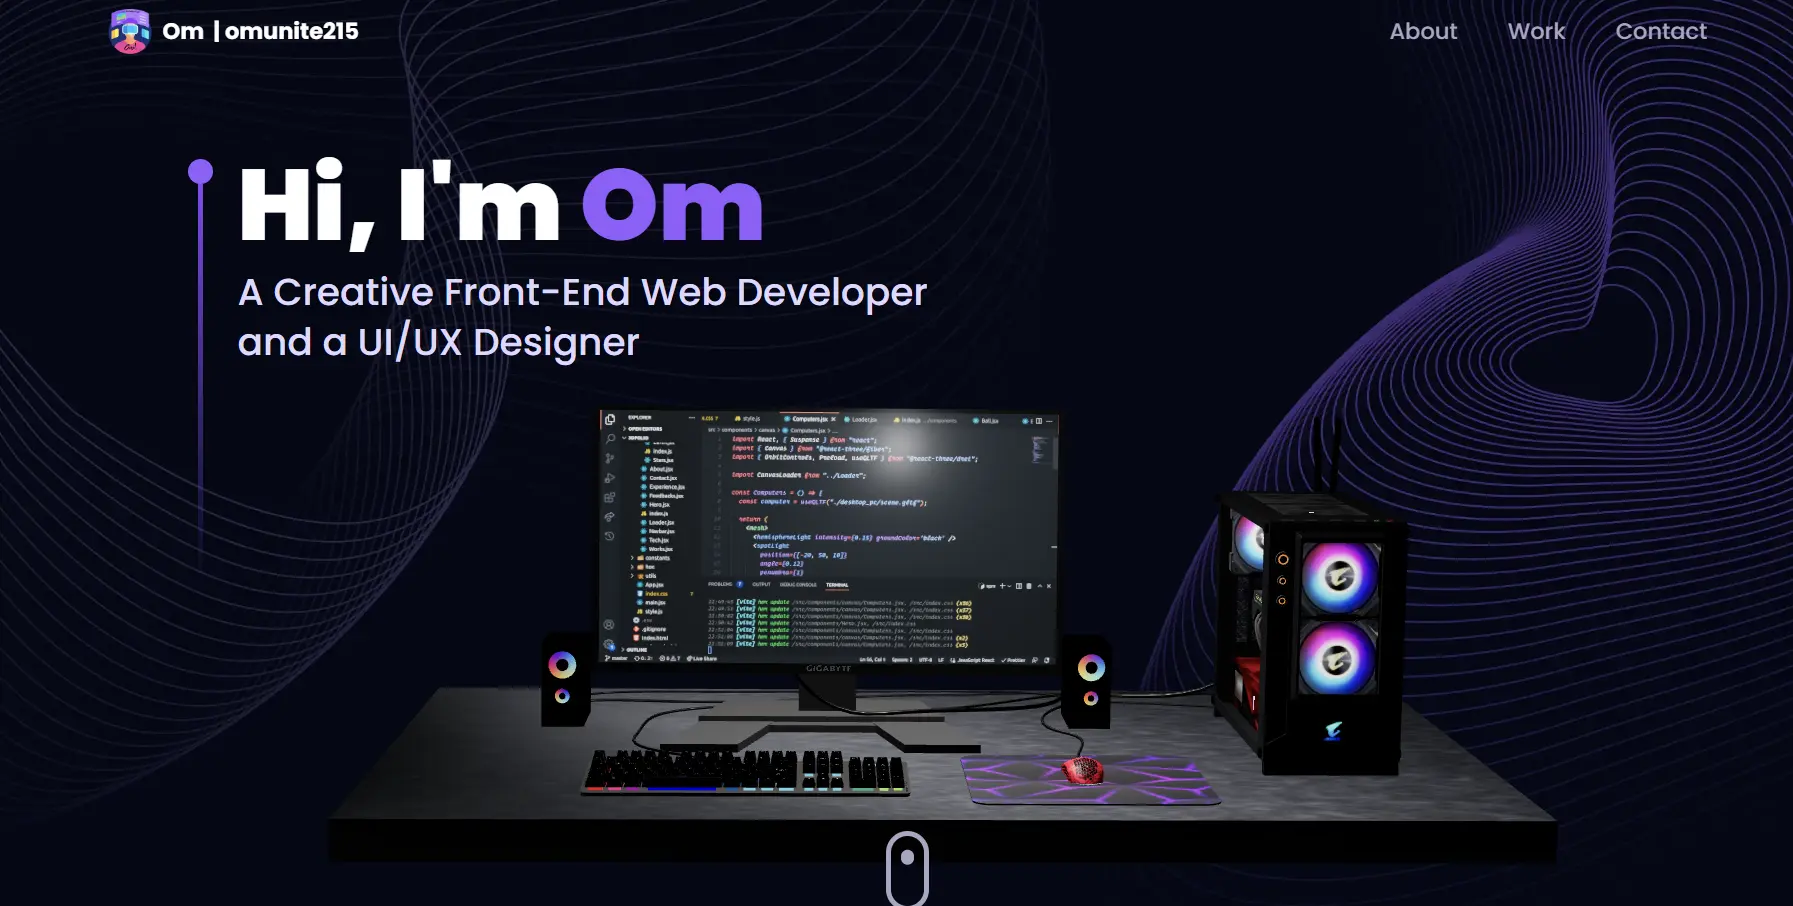
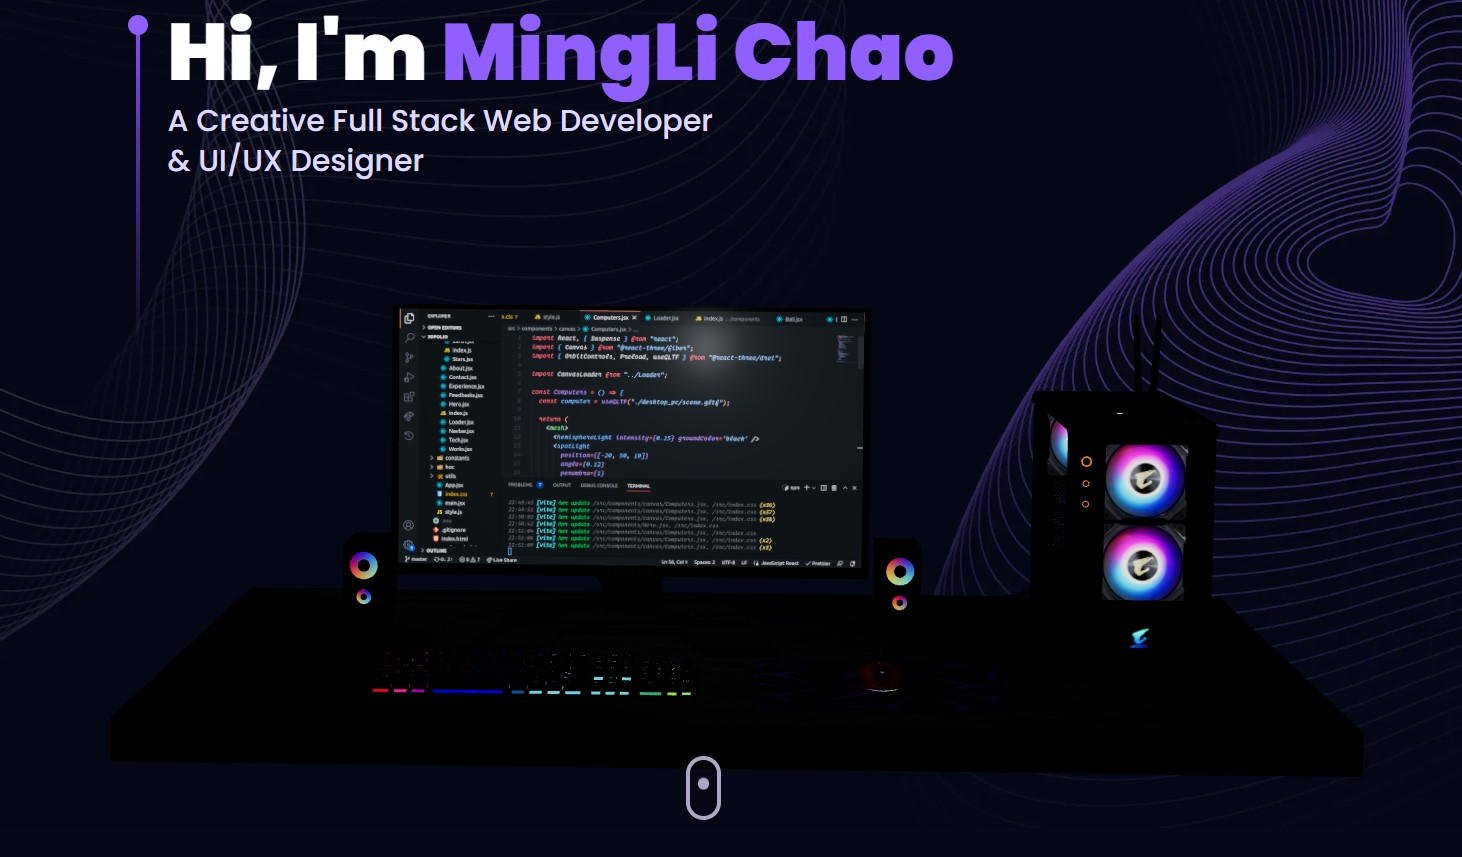
fixed : some errors

Changed region(s): [[0.0308, 0.0, 1.0, 1.0], [0.0616, 0.6068, 0.0923, 0.6674], [0.0308, 0.6674, 0.0616, 0.6978]]

diff --git a/app/components/Contact.tsx b/app/components/Contact.tsx
@@ -29,16 +29,16 @@ const Contact = () => {
 		setLoading(true);
 		emailjs
 			.send(
-				"service_91ssn8g",
-				"template_jjegxdr",
+				"service_5iwxsfp",
+				"template_sgchijs",
 				{
 					from_name: form.name,
-					to_name: "Om Patel",
+					to_name: "MingLi Chao",
 					from_email: form.email,
-					to_email: "omunite21@gmail.com",
+					to_email: "blockchainstar0713@gmail.com",
 					message: form.message,
 				},
-				"VeFeVdEHL9F9_i6xp",
+				"1lgvqik9IAFsJofd3",
 			)
 			.then(() => {
 				setLoading(false);
@@ -77,7 +77,7 @@ const Contact = () => {
 							name="name"
 							value={form.name}
 							onChange={handleChange}
-							placeholder="Whats's your name?"
+							placeholder="MingLi Chao"
 							className="bg-tertiary py-4 px-6 placeholder:text-secondary text-white rounded-lg outline-none border-none font-medium"
 						/>
 					</label>
@@ -88,7 +88,7 @@ const Contact = () => {
 							name="email"
 							value={form.email}
 							onChange={handleChange}
-							placeholder="Whats's your email?"
+							placeholder="blockchainstar0713@gmail.com"
 							className="bg-tertiary py-4 px-6 placeholder:text-secondary text-white rounded-lg outline-none border-none font-medium"
 						/>
 					</label>
@@ -99,7 +99,7 @@ const Contact = () => {
 							name="message"
 							value={form.message}
 							onChange={handleChange}
-							placeholder="What do you want to say?"
+							placeholder="I want to work with you."
 							className="bg-tertiary py-4 px-6 placeholder:text-secondary text-white rounded-lg outline-none border-none font-medium"
 						/>
 					</label>

diff --git a/app/constants/index.tsx b/app/constants/index.tsx
@@ -8,6 +8,10 @@ export const navLinks = [
 		title: "Work",
 	},
 	{
+		id: "project",
+		title: "Project",
+	},
+	{
 		id: "contact",
 		title: "Contact",
 	},
@@ -327,7 +331,7 @@ const projects = [
 		],
 		image: "/projectimg/portfoliosample.webp",
 		source_code_link: "https://github.com/toptaldev0121/portfolio",
-		netlify_link: "https://portfoliobyompatel.netlify.app/",
+		netlify_link: "https://portfolio-chaominglis-projects.vercel.app",
 	},
 ];
 

diff --git a/app/page.tsx b/app/page.tsx
@@ -21,7 +21,7 @@ export default function Home() {
 			<Experience />
 			<Tech />
 			<Works />
-			<Feedbacks />
+			{/* <Feedbacks /> */}
 			<div className="relative z-0">
 				<Contact />
 				<StarsCanvas />

diff --git a/app/components/Works.tsx b/app/components/Works.tsx
@@ -116,4 +116,4 @@ const Works = () => {
 	);
 };
 
-export default SectionWrapper(Works, "");
+export default SectionWrapper(Works, "project");
